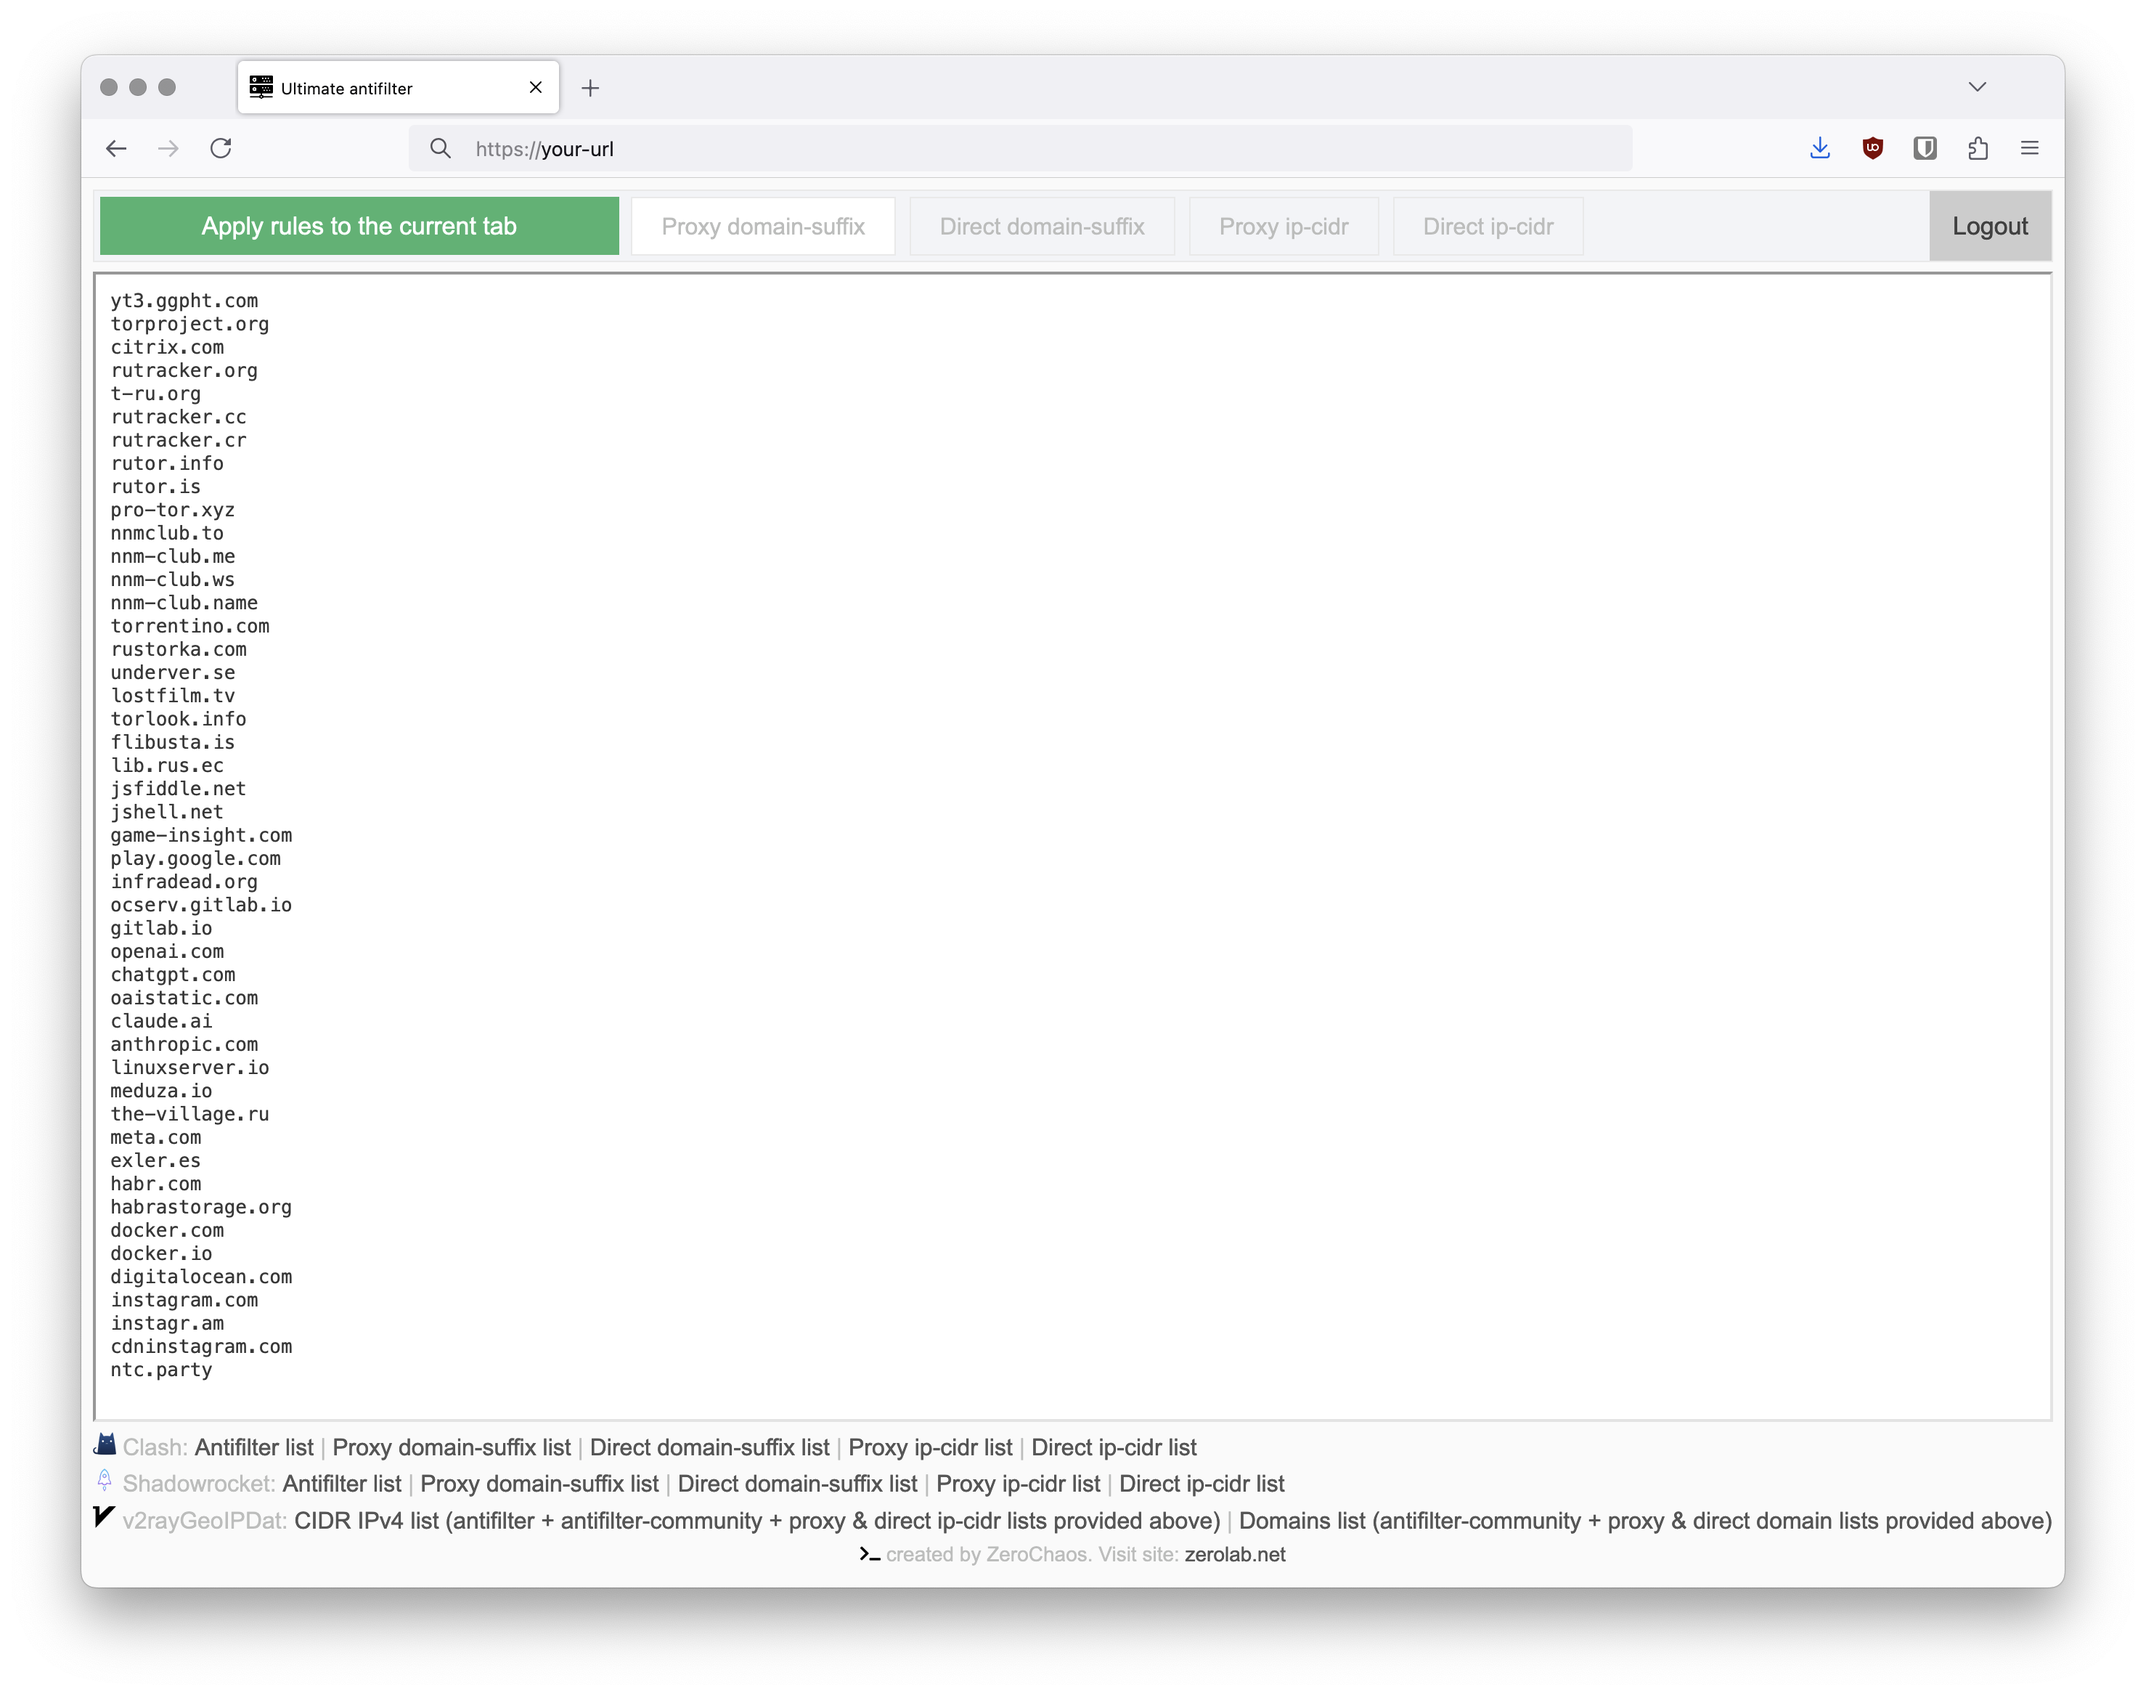
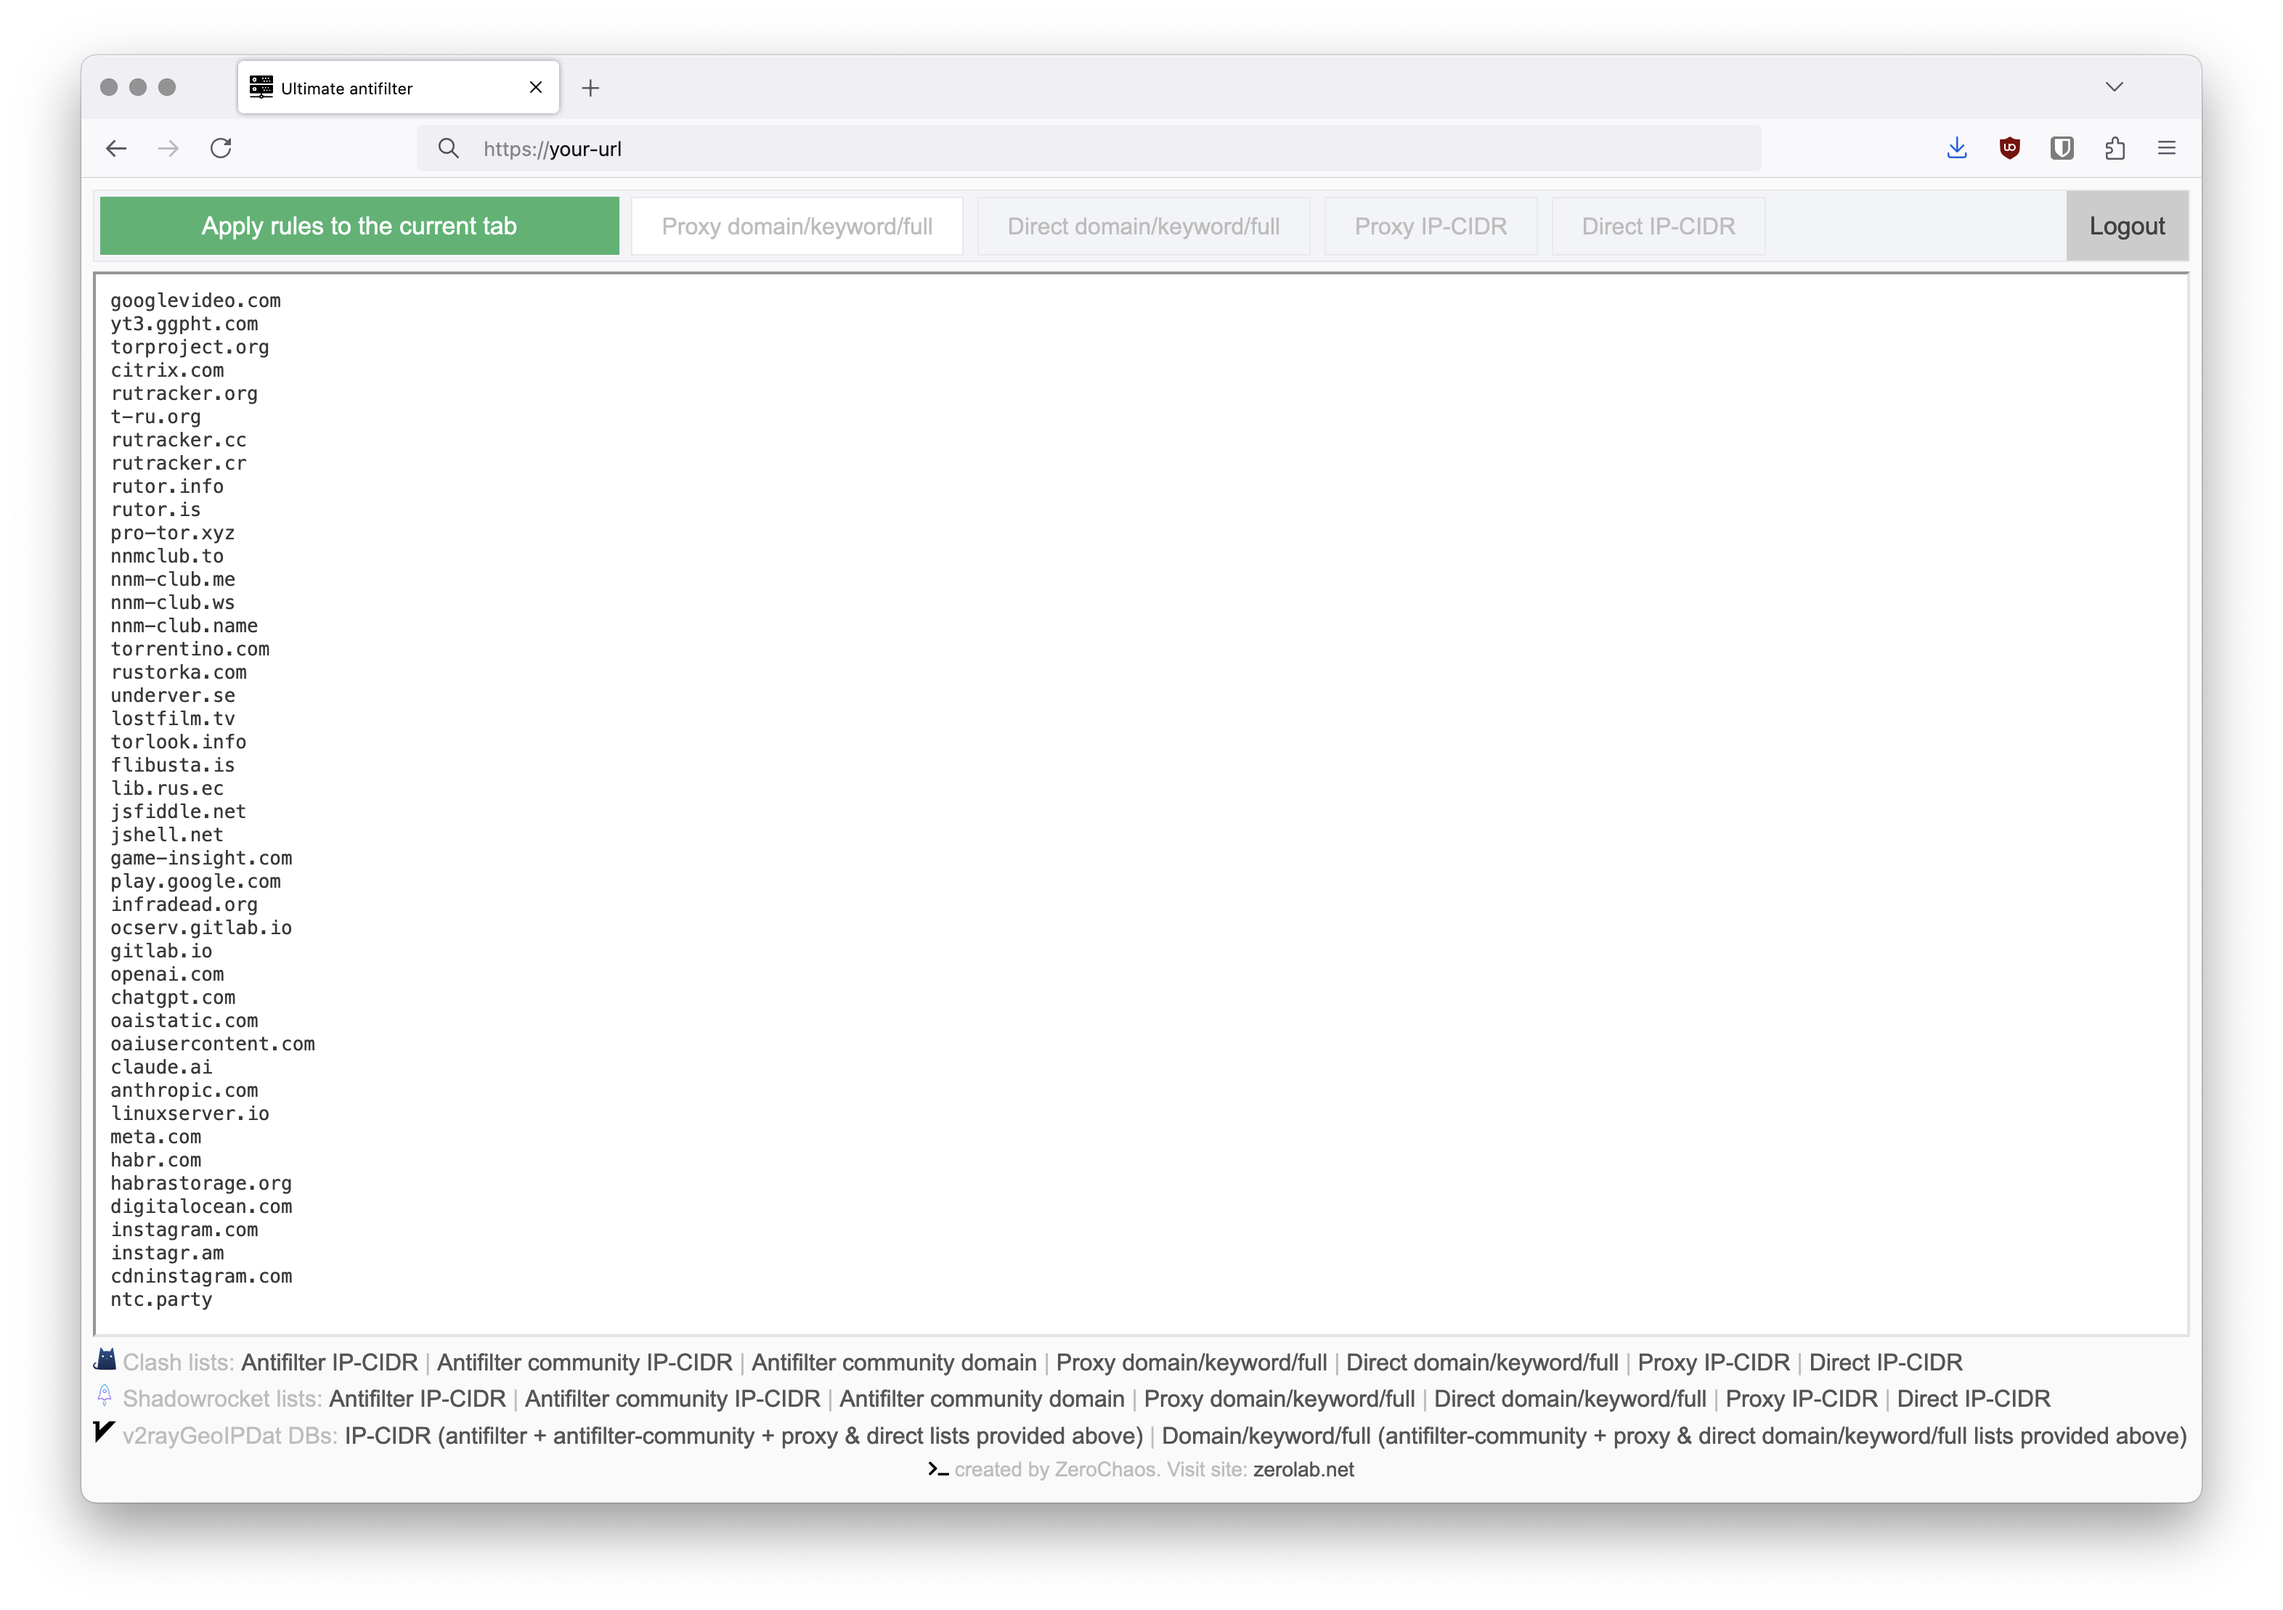
Some rewrites, add support 'keyword:' & 'full:' prefixs

Changed region(s): [[0.0311, 0.0311, 0.9648, 0.9644]]

diff --git a/webroot/index.php b/webroot/index.php
@@ -147,9 +147,9 @@ function convert_to_shadowrocket($fromFile, $toFile) {
         // Разбиваем содержимое на строки
         $lines = explode(PHP_EOL, $result);
         // Определяем префикс в зависимости от имени файла
-        if ($_POST['fileName'] == "proxy-domain-suffix" || $_POST['fileName'] == "direct-domain-suffix") {
+        if ($_POST['fileName'] == "proxy-domain" || $_POST['fileName'] == "direct-domain") {
             $prefix = 'DOMAIN-SUFFIX,';
-        } elseif ($_POST['fileName'] == "proxy-ip-cidr" || $_POST['fileName'] == "direct-ip-cidr") {
+        } elseif ($_POST['fileName'] == "proxy-ip" || $_POST['fileName'] == "direct-ip") {
             $prefix = 'IP-CIDR,';
         } else {
             $prefix = '';
@@ -157,7 +157,15 @@ function convert_to_shadowrocket($fromFile, $toFile) {
         // Добавляем соответствующий префикс в начало каждой непустой строки
         foreach ($lines as &$line) {
             if (!empty(trim($line))) { // Игнорируем пустые строки
-                $line = $prefix . $line;
+                if (strpos($line, 'domain:') !== false && $prefix == 'DOMAIN-SUFFIX,') {
+                    $line = str_replace('domain:', 'DOMAIN-SUFFIX,', $line);
+                } elseif (strpos($line, 'keyword:') !== false && $prefix == 'DOMAIN-SUFFIX,') {
+                    $line = str_replace('keyword:', 'DOMAIN-KEYWORD,', $line);
+                } elseif (strpos($line, 'full:') !== false && $prefix == 'DOMAIN-SUFFIX,') {
+                    $line = str_replace('full:', 'DOMAIN,', $line);
+                } else {
+                    $line = $prefix . $line;
+                }
             }
         }
         // Объединяем строки обратно в одно содержимое
@@ -198,10 +206,10 @@ else if (isset($_POST['save']) && $_POST['save'] == "1") {
 
     // Массив для сопоставления имен файлов с действиями
     $fileActions = [
-        "proxy-domain-suffix" => ["convert_to_shadowrocket" => "proxy-domain-suffix.list", "convert_to_clash" => "proxy-domain-suffix.yaml", "script" => "/srv/geosite.sh"],
-        "direct-domain-suffix" => ["convert_to_shadowrocket" => "direct-domain-suffix.list", "convert_to_clash" => "direct-domain-suffix.yaml", "script" => "/srv/geosite.sh"],
-        "proxy-ip-cidr" => ["convert_to_shadowrocket" => "proxy-ip-cidr.list", "convert_to_clash" => "proxy-ip-cidr.yaml", "script" => "/srv/geoip.sh"],
-        "direct-ip-cidr" => ["convert_to_shadowrocket" => "direct-ip-cidr.list", "convert_to_clash" => "direct-ip-cidr.yaml", "script" => "/srv/geoip.sh"],
+        "proxy-domain" => ["convert_to_shadowrocket" => "proxy-domain.list", "convert_to_clash" => "proxy-domain.yaml", "script" => "/srv/geosite.sh"],
+        "direct-domain" => ["convert_to_shadowrocket" => "direct-domain.list", "convert_to_clash" => "direct-domain.yaml", "script" => "/srv/geosite.sh"],
+        "proxy-ip" => ["convert_to_shadowrocket" => "proxy-ip.list", "convert_to_clash" => "proxy-ip.yaml", "script" => "/srv/geoip.sh"],
+        "direct-ip" => ["convert_to_shadowrocket" => "direct-ip.list", "convert_to_clash" => "direct-ip.yaml", "script" => "/srv/geoip.sh"],
     ];
 
     // Если мы смогли открыть файл
@@ -422,44 +430,44 @@ else if (isset($_POST['save']) && $_POST['save'] == "1") {
         }
 
         // Имя и путь до файла по умолчанию (вкладка Proxy)
-        var fileName = "proxy-domain-suffix";
+        var fileName = "proxy-domain";
 
         function setupTabHandlers() {
             loadFile(fileName); // Load the default file
-            $('#tab-proxy-domain-suffix').click(function() {
-                fileName = "proxy-domain-suffix";
+            $('#tab-proxy-domain').click(function() {
+                fileName = "proxy-domain";
                 loadFile(fileName);
-                $('#tab-proxy-domain-suffix').addClass('active');
-                $('#tab-direct-domain-suffix').removeClass('active');
-                $('#tab-proxy-ip-cidr').removeClass('active');
-                $('#tab-direct-ip-cidr').removeClass('active');
+                $('#tab-proxy-domain').addClass('active');
+                $('#tab-direct-domain').removeClass('active');
+                $('#tab-proxy-ip').removeClass('active');
+                $('#tab-direct-ip').removeClass('active');
             });
 
-            $('#tab-direct-domain-suffix').click(function() {
-                fileName = "direct-domain-suffix";
+            $('#tab-direct-domain').click(function() {
+                fileName = "direct-domain";
                 loadFile(fileName);
-                $('#tab-proxy-domain-suffix').removeClass('active');
-                $('#tab-direct-domain-suffix').addClass('active');
-                $('#tab-proxy-ip-cidr').removeClass('active');
-                $('#tab-direct-ip-cidr').removeClass('active');
+                $('#tab-proxy-domain').removeClass('active');
+                $('#tab-direct-domain').addClass('active');
+                $('#tab-proxy-ip').removeClass('active');
+                $('#tab-direct-ip').removeClass('active');
             });
 
-            $('#tab-proxy-ip-cidr').click(function() {
-                fileName = "proxy-ip-cidr";
+            $('#tab-proxy-ip').click(function() {
+                fileName = "proxy-ip";
                 loadFile(fileName);
-                $('#tab-proxy-domain-suffix').removeClass('active');
-                $('#tab-direct-domain-suffix').removeClass('active');
-                $('#tab-proxy-ip-cidr').addClass('active');
-                $('#tab-direct-ip-cidr').removeClass('active');
+                $('#tab-proxy-domain').removeClass('active');
+                $('#tab-direct-domain').removeClass('active');
+                $('#tab-proxy-ip').addClass('active');
+                $('#tab-direct-ip').removeClass('active');
             });
 
-            $('#tab-direct-ip-cidr').click(function() {
-                fileName = "direct-ip-cidr";
+            $('#tab-direct-ip').click(function() {
+                fileName = "direct-ip";
                 loadFile(fileName);
-                $('#tab-proxy-domain-suffix').removeClass('active');
-                $('#tab-direct-domain-suffix').removeClass('active');
-                $('#tab-proxy-ip-cidr').removeClass('active');
-                $('#tab-direct-ip-cidr').addClass('active');
+                $('#tab-proxy-domain').removeClass('active');
+                $('#tab-direct-domain').removeClass('active');
+                $('#tab-proxy-ip').removeClass('active');
+                $('#tab-direct-ip').addClass('active');
             });
         }
 
@@ -499,10 +507,10 @@ else if (isset($_POST['save']) && $_POST['save'] == "1") {
     <div class="topnav">
         <div class="left-container">
             <button id='saveStatus' onclick='doSave();'>Apply rules to the current tab</button>
-            <span id="tab-proxy-domain-suffix" class="tab active">Proxy DOMAIN-SUFFIX</span>
-            <span id="tab-direct-domain-suffix" class="tab">Direct DOMAIN-SUFFIX</span>
-            <span id="tab-proxy-ip-cidr" class="tab">Proxy IP-CIDR</span>
-            <span id="tab-direct-ip-cidr" class="tab">Direct IP-CIDR</span>
+            <span id="tab-proxy-domain" class="tab active">Proxy domain/keyword/full</span>
+            <span id="tab-direct-domain" class="tab">Direct domain/keyword/full</span>
+            <span id="tab-proxy-ip" class="tab">Proxy IP-CIDR</span>
+            <span id="tab-direct-ip" class="tab">Direct IP-CIDR</span>
         </div>
         <div class="right-container">
             <a href="?logout">Logout</a>
@@ -513,23 +521,27 @@ else if (isset($_POST['save']) && $_POST['save'] == "1") {
     <textarea name='newContent' id='editor'></textarea>
 
     <div class="bottomnav">
-        <div><img class="icon-clash"> Clash:
-            <a href="antifilter.yaml">Antifilter list</a> |
-            <a href="proxy-domain-suffix.yaml">Proxy DOMAIN-SUFFIX list</a> |
-            <a href="direct-domain-suffix.yaml">Direct DOMAIN-SUFFIX list</a> |
-            <a href="proxy-ip-cidr.yaml">Proxy IP-CIDR list</a> |
-            <a href="direct-ip-cidr.yaml">Direct IP-CIDR list</a>
+        <div><img class="icon-clash"> Clash lists:
+            <a href="antifilter-ip.yaml">Antifilter IP-CIDR</a> |
+            <a href="antifilter-community-ip.yaml">Antifilter community IP-CIDR</a> |
+            <a href="antifilter-community-domain.yaml">Antifilter community domain</a> |
+            <a href="proxy-domain.yaml">Proxy domain/keyword/full</a> |
+            <a href="direct-domain.yaml">Direct domain/keyword/full</a> |
+            <a href="proxy-ip.yaml">Proxy IP-CIDR</a> |
+            <a href="direct-ip.yaml">Direct IP-CIDR</a>
         </div>
-        <div><img class="icon-shadowrocket"> Shadowrocket:
-            <a href="antifilter.list">Antifilter list</a> |
-            <a href="proxy-domain-suffix.list">Proxy DOMAIN-SUFFIX list</a> |
-            <a href="direct-domain-suffix.list">Direct DOMAIN-SUFFIX list</a> |
-            <a href="proxy-ip-cidr.list">Proxy IP-CIDR list</a> |
-            <a href="direct-ip-cidr.list">Direct IP-CIDR list</a>
+        <div><img class="icon-shadowrocket"> Shadowrocket lists:
+            <a href="antifilter-ip.list">Antifilter IP-CIDR</a> |
+            <a href="antifilter-community-ip.list">Antifilter community IP-CIDR</a> |
+            <a href="antifilter-community-domain.list">Antifilter community domain</a> |
+            <a href="proxy-domain.list">Proxy domain/keyword/full</a> |
+            <a href="direct-domain.list">Direct domain/keyword/full</a> |
+            <a href="proxy-ip.list">Proxy IP-CIDR</a> |
+            <a href="direct-ip.list">Direct IP-CIDR</a>
         </div>
-        <div><img class="icon-v2ray"> v2rayGeoIPDat:
-            <a href="geoip.dat">CIDR IPv4 list (antifilter + antifilter-community + proxy & direct IP-CIDR lists provided above)</a> |
-            <a href="geosite.dat">Domains list (antifilter-community + proxy & direct domain lists provided above)</a>
+        <div><img class="icon-v2ray"> v2rayGeoIPDat DBs:
+            <a href="geoip.dat">IP-CIDR (antifilter + antifilter-community + proxy & direct lists provided above)</a> |
+            <a href="geosite.dat">Domain/keyword/full (antifilter-community + proxy & direct domain/keyword/full lists provided above)</a>
         </div>
         <div class="copyright"><img class="fas-fa-terminal"> created by ZeroChaos. Visit site: <a href="https://zerolab.net" target="_blank">zerolab.net</a></div>
     </div>

diff --git a/README.md b/README.md
@@ -39,6 +39,20 @@ docker logs ultimate-antifilter
 
 Each tab contains an example of the data format.
 
+Additionally, you can use the 'domain:', 'keyword:' and 'full:' formats on the domain tabs.
+
+Example:
+
+```
+domain:google.com
+keyword:google
+full:www.google.com
+```
+
+* Subdomain begins with domain:, followed by a valid domain name. **The prefix domain: may be omitted**.
+* Keyword begins with keyword:, followed by a string.
+* Full domain begins with full:, followed by a complete and valid domain name.
+
 ### Go to the admin panel and prescribe the rules:
 
 http://YOUR_IP:8080
